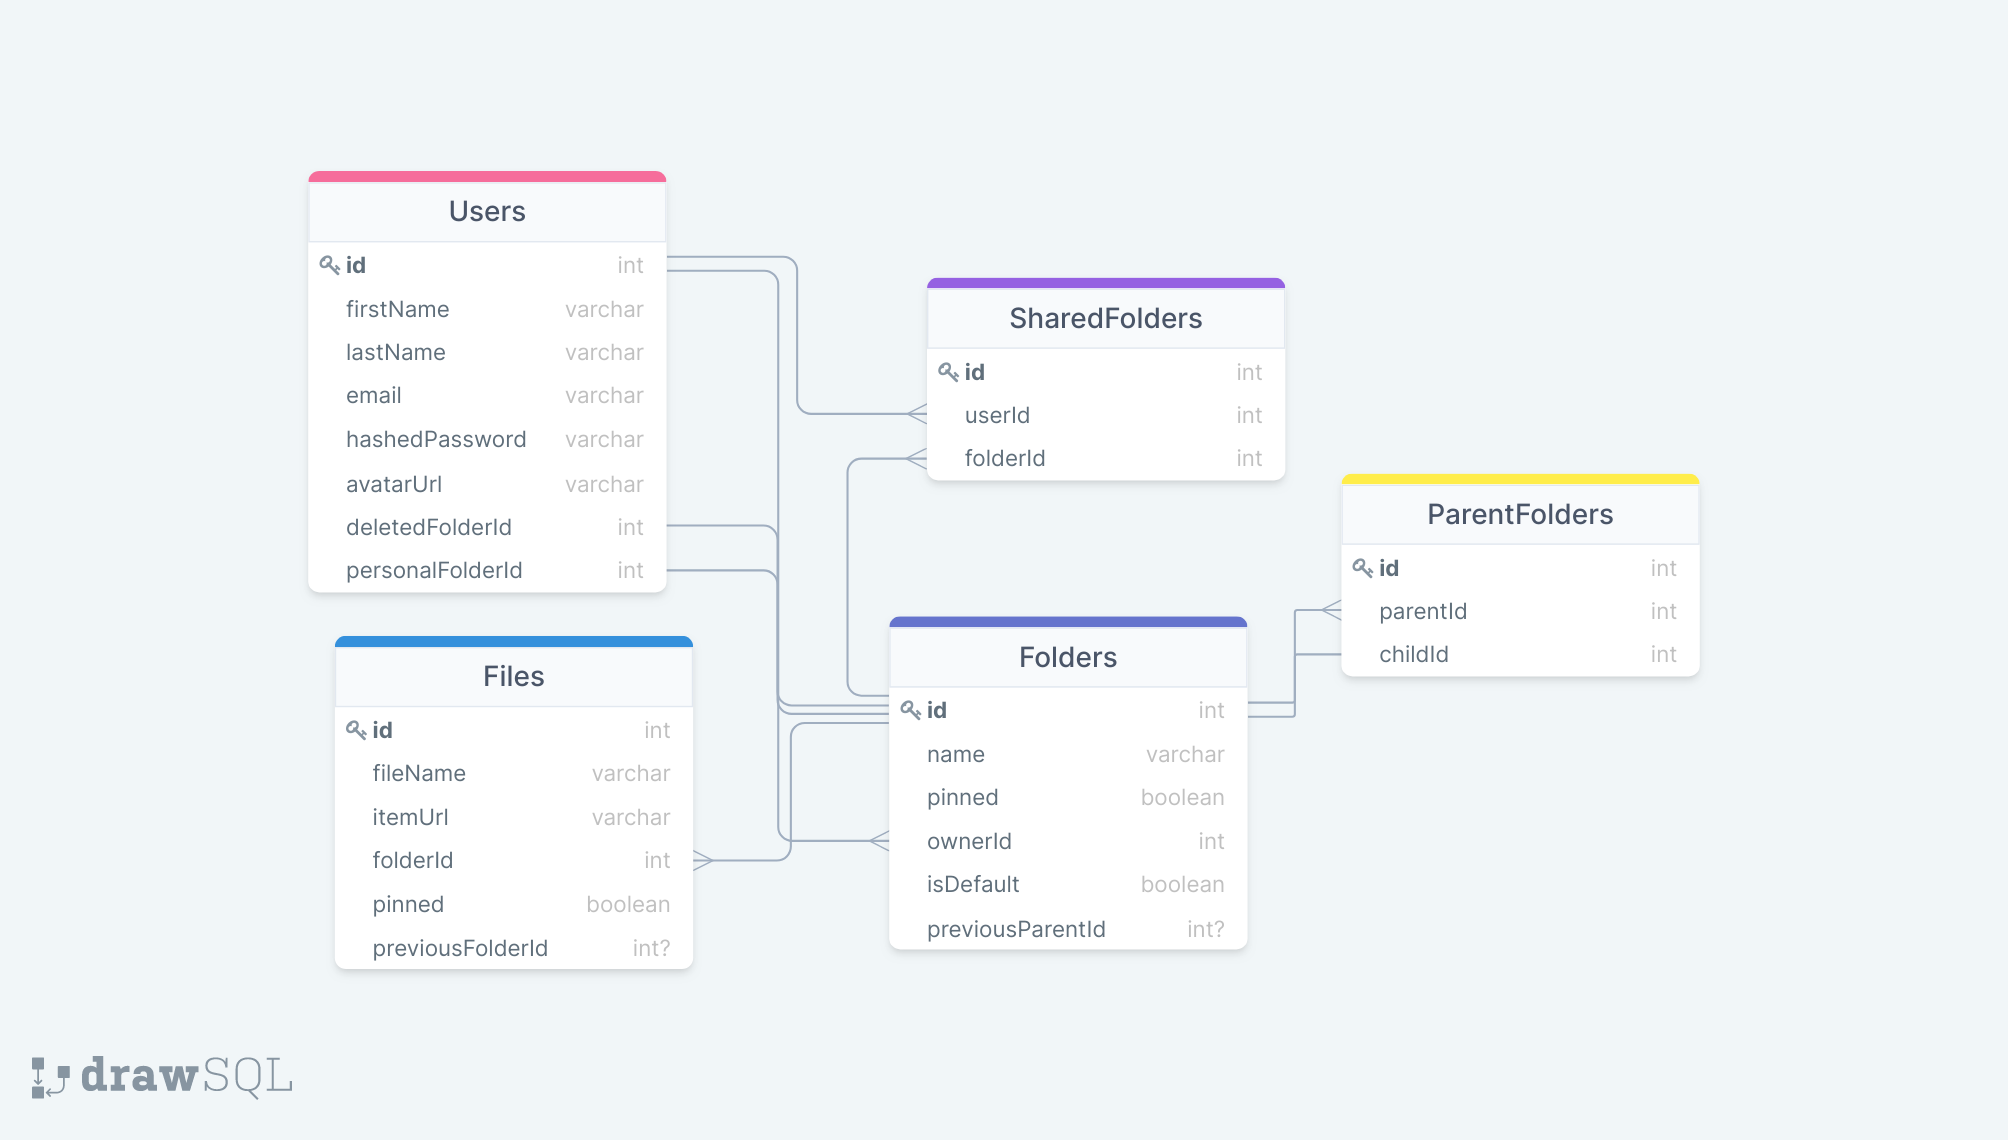
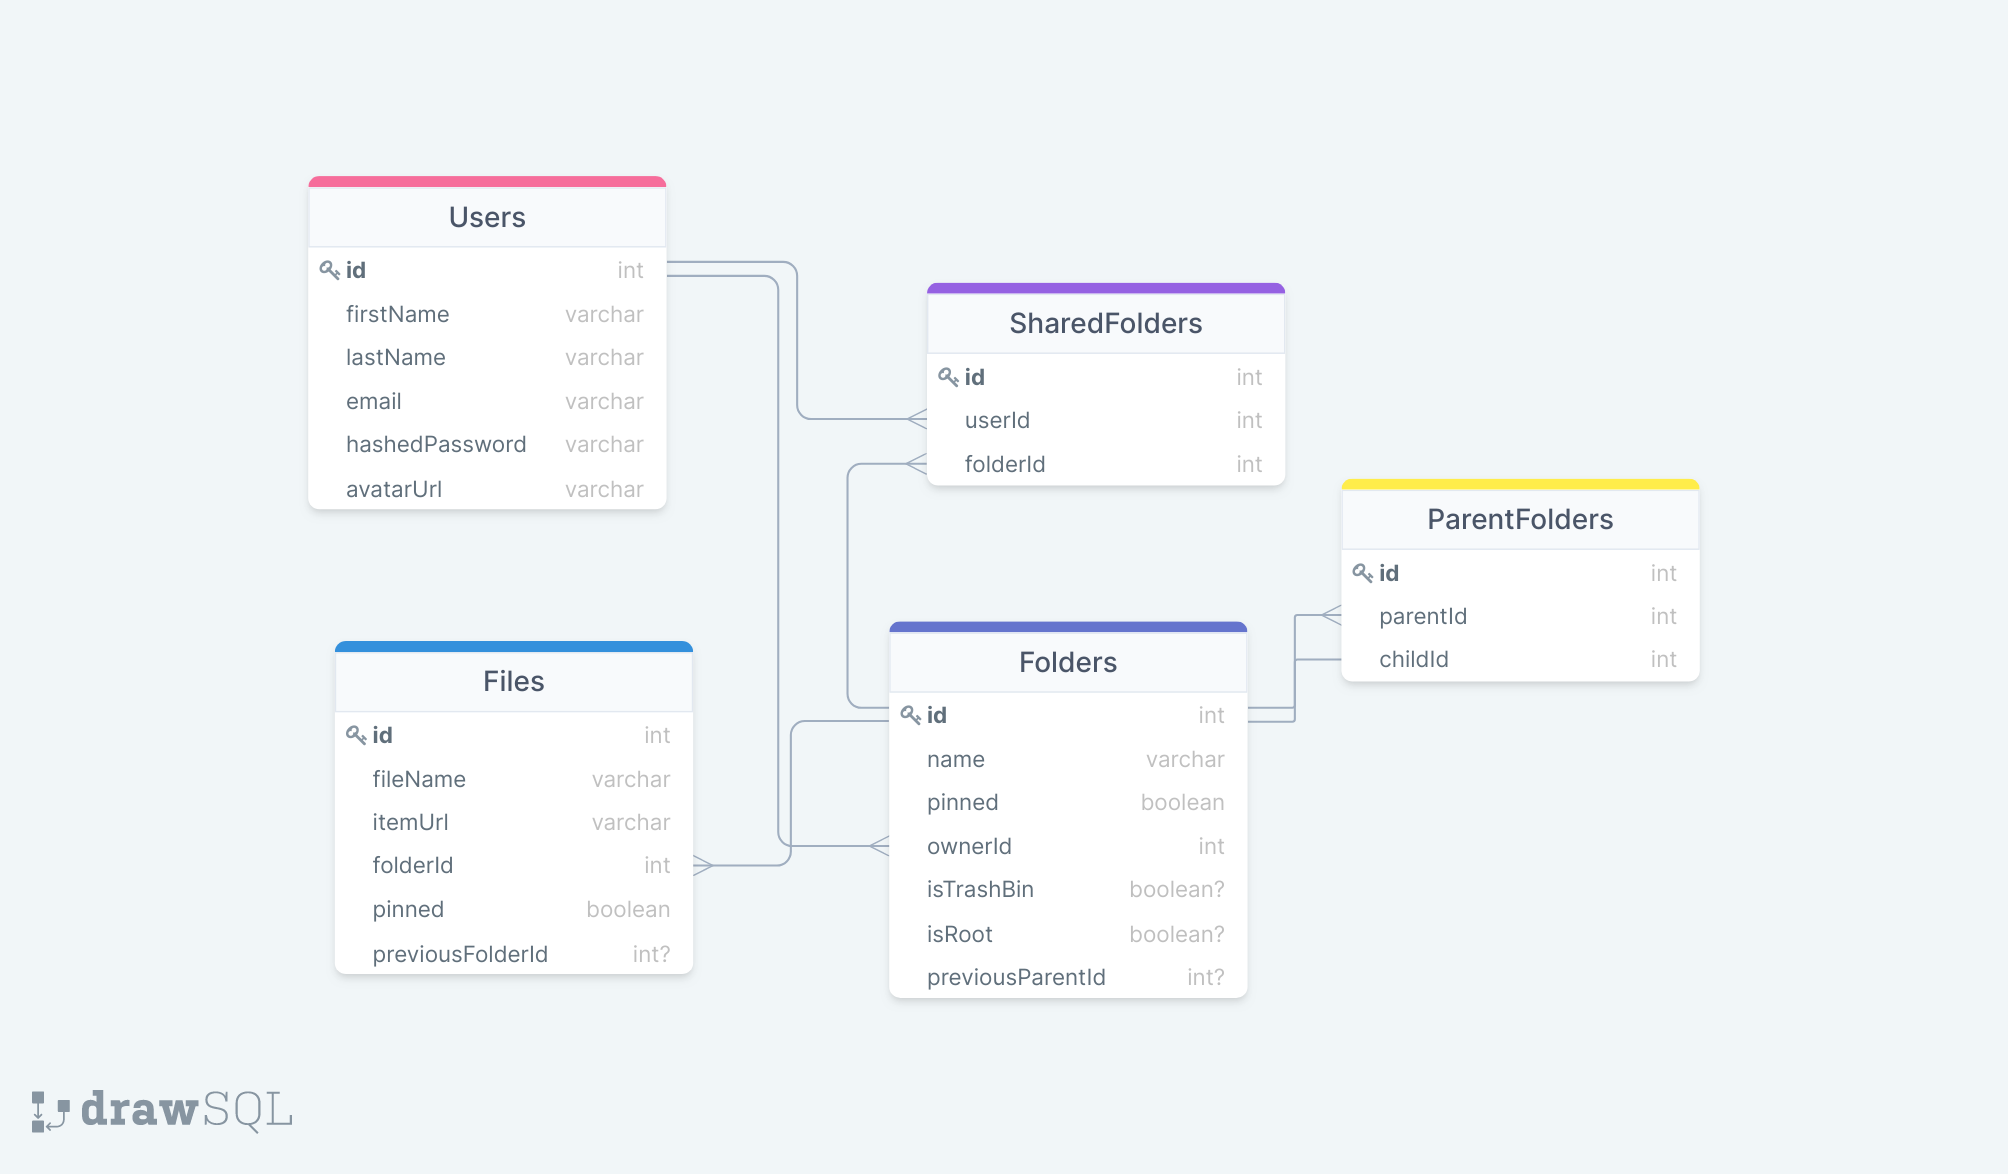
updated models

diff --git a/routes/api/session.js b/routes/api/session.js
@@ -1,0 +1,51 @@
+const express = require('express');
+const asyncHandler = require('express-async-handler');
+const { authenticated, generateToken } = require('./security-utils');
+const { validateEmailAndPassword, validationResult } = require('../../validations');
+const { User } = require("../../db/models");
+
+
+const router = express.Router();
+
+
+router.put(
+  '/',
+  validateEmailAndPassword,
+  asyncHandler(async (req, res, next) => {
+    const errors = validationResult(req);
+    if (!errors.isEmpty()) {
+      return next({ status: 422, errors: errors.array() });
+    }
+
+    async function findByEmail(email) {
+        const user = await User.findOne({ where: { email } });
+        return user || new NullUser();
+    }
+
+    const { email, password } = req.body;
+    const user = await findByEmail(email);
+    if (!user.isValidPassword(password)) {
+      const err = new Error('Login failed');
+      err.status = 401;
+      err.title = 'Login failed';
+      err.errors = ['Invalid credentials'];
+      return next(err);
+    }
+    const { jti, token } = generateToken(user);
+    user.tokenId = jti;
+    await user.save();
+    res.json({ token, user: user.toSafeObject() });
+  })
+);
+
+router.delete(
+  '/',
+  [authenticated],
+  asyncHandler(async (req, res) => {
+    req.user.tokenId = null;
+    await req.user.save();
+    res.json({ message: 'success' });
+  })
+);
+
+module.exports = router;

diff --git a/routes/api/security-utils.js b/routes/api/security-utils.js
@@ -1,0 +1,59 @@
+const bearerToken = require('express-bearer-token');
+const jwt = require('jsonwebtoken');
+const uuid = require('uuid').v4;
+const { jwtConfig: { secret, expiresIn } } = require('../../config');
+const { User } = require("../../db/models");
+
+
+function generateToken(user) {
+  // TODO: Add any data you want to keep in the JWT here
+  const data = {
+    firstName: user.firstName,
+    lastName: user.lastName,
+    email: user.email,
+  };
+  const jwtid = uuid();
+
+  return {
+    jti: jwtid,
+    token: jwt.sign({ data }, secret, { expiresIn: Number.parseInt(expiresIn), jwtid })
+  };
+}
+
+function restoreUser(req, res, next) {
+  const { token } = req;
+
+  if (!token) {
+    return next({ status: 401, message: 'no token' });
+  }
+
+  return jwt.verify(token, secret, null, async (err, payload) => {
+    if (err) {
+      err.status = 403;
+      return next(err);
+    }
+
+    const tokenId = payload.jti;
+
+    async function findByTokenId(tokenId) {
+        const user = await User.findOne({ where: { tokenId } });
+        return user
+    }
+
+    try {
+      req.user = await findByTokenId(tokenId);
+    } catch (e) {
+      return next(e);
+    }
+
+    if (!req.user.isValid()) {
+      return next({ status: 404, message: 'session not found' });
+    }
+
+    next();
+  });
+}
+
+const authenticated = [bearerToken(), restoreUser];
+
+module.exports = { generateToken, authenticated };

diff --git a/db/seeders/20200404043519-insert-folders.js b/db/seeders/20200404043519-insert-folders.js
@@ -1,0 +1,16 @@
+'use strict';
+
+module.exports = {
+  up: (queryInterface, Sequelize) => {
+      return queryInterface.bulkInsert('Folders', [
+          { name: "root", pinned: false, ownerId: 1, isTrashBin: false, isRoot: true, createdAt: new Date(), updatedAt: new Date() },
+          { name: "trashBin", pinned: false, ownerId: 1, isTrashBin: true, isRoot: false, createdAt: new Date(), updatedAt: new Date() },
+          { name: "root", pinned: false, ownerId: 2, isTrashBin: false, isRoot: true, createdAt: new Date(), updatedAt: new Date() },
+          { name: "trashBin", pinned: false, ownerId: 2, isTrashBin: true, isRoot: false, createdAt: new Date(), updatedAt: new Date() },
+      ], {});
+  },
+
+  down: (queryInterface, Sequelize) => {
+      return queryInterface.bulkDelete('Folders', null, {});
+  }
+};

diff --git a/db/seeders/20201203070136-insert-files.js b/db/seeders/20201203070136-insert-files.js
@@ -3,7 +3,10 @@
 module.exports = {
   up: (queryInterface, Sequelize) => {
       return queryInterface.bulkInsert('Files', [
-        { fileName: 'test.png', itemUrl: "www.test.png", folderId: 1, pinned: false, createdAt: new Date(), updatedAt: new Date() }
+        { fileName: 'test1.png', itemUrl: "www.test1.png", folderId: 1, pinned: false, createdAt: new Date(), updatedAt: new Date() },
+        { fileName: 'test2.png', itemUrl: "www.test2.png", folderId: 2, pinned: false, createdAt: new Date(), updatedAt: new Date() },
+        { fileName: 'test3.png', itemUrl: "www.test3.png", folderId: 3, pinned: false, createdAt: new Date(), updatedAt: new Date() },
+        { fileName: 'test4.png', itemUrl: "www.test4.png", folderId: 4, pinned: false, createdAt: new Date(), updatedAt: new Date() },
     ], {});
   },
 

diff --git a/db/seeders/20201203070110-insert-sharedfolders.js b/db/seeders/20201203070110-insert-sharedfolders.js
@@ -4,8 +4,9 @@ module.exports = {
   up: (queryInterface, Sequelize) => {
       return queryInterface.bulkInsert('SharedFolders', [
         { userId: 1, folderId: 1, createdAt: new Date(), updatedAt: new Date() },
-        { userId: 2, folderId: 2, createdAt: new Date(), updatedAt: new Date() },
-        { userId: 1, folderId: 3, createdAt: new Date(), updatedAt: new Date() },
+        { userId: 1, folderId: 2, createdAt: new Date(), updatedAt: new Date() },
+        { userId: 2, folderId: 3, createdAt: new Date(), updatedAt: new Date() },
+        { userId: 2, folderId: 4, createdAt: new Date(), updatedAt: new Date() },
       ], {});
   },
 

diff --git a/db/migrations/20201203045104-create-folder.js b/db/migrations/20201203045104-create-folder.js
@@ -21,7 +21,11 @@ module.exports = {
         type: Sequelize.INTEGER,
         references: { model: "Users" }
       },
-      isDefault: {
+      isTrashBin: {
+        allowNull: false,
+        type: Sequelize.BOOLEAN,
+      },
+      isRoot: {
         allowNull: false,
         type: Sequelize.BOOLEAN,
       },
@@ -39,6 +43,6 @@ module.exports = {
     });
   },
   down: (queryInterface, Sequelize) => {
-    return queryInterface.dropTable('folders');
+    return queryInterface.dropTable('Folders');
   }
 };

diff --git a/db/seeders/20201203070120-insert-parentfolders.js b/db/seeders/20201203070120-insert-parentfolders.js
@@ -3,7 +3,10 @@
 module.exports = {
   up: (queryInterface, Sequelize) => {
       return queryInterface.bulkInsert('ParentFolders', [
-        { parentId: 1, createdAt: new Date(), updatedAt: new Date() }
+        { parentId: 1, createdAt: new Date(), updatedAt: new Date() },
+        { parentId: 2, createdAt: new Date(), updatedAt: new Date() },
+        { parentId: 3, createdAt: new Date(), updatedAt: new Date() },
+        { parentId: 4, createdAt: new Date(), updatedAt: new Date() },
     ], {});
   },
 

diff --git a/db/seeders/20200304043519-insert-users.js b/db/seeders/20200304043519-insert-users.js
@@ -17,7 +17,6 @@ module.exports = {
     return queryInterface.bulkInsert('Users', [
       r({ firstName: 'Demo', lastName: "User", email: 'demo@example.com', hashedPassword: createPassword() }),
       r({ firstName: 'Yusuke', lastName: "Hiruke", email: 'yusuke@example.com', hashedPassword: createPassword() }),
-      r({ firstName: 'Peta', lastName: "Sandra", email: 'petra@example.com', hashedPassword: createPassword() }),
     ]);
   },
 

diff --git a/db/models/folder.js b/db/models/folder.js
@@ -13,7 +13,11 @@ module.exports = (sequelize, DataTypes) => {
         allowNull: false,
         type: DataTypes.INTEGER
     },
-    isDefault: {
+    isTrashBin: {
+        allowNull: false,
+        type: DataTypes.BOOLEAN
+    },
+    isRoot: {
         allowNull: false,
         type: DataTypes.BOOLEAN
     },

diff --git a/db/migrations/20201203045126-create-sharedfolder.js b/db/migrations/20201203045126-create-sharedfolder.js
@@ -29,6 +29,6 @@ module.exports = {
     });
   },
   down: (queryInterface, Sequelize) => {
-    return queryInterface.dropTable('sharedfolders');
+    return queryInterface.dropTable('SharedFolders');
   }
 };

diff --git a/db/migrations/20201203045234-create-parentfolder.js b/db/migrations/20201203045234-create-parentfolder.js
@@ -28,6 +28,6 @@ module.exports = {
     });
   },
   down: (queryInterface, Sequelize) => {
-    return queryInterface.dropTable('parentfolders');
+    return queryInterface.dropTable('ParentFolders');
   }
 };

diff --git a/db/migrations/20201203045334-create-file.js b/db/migrations/20201203045334-create-file.js
@@ -39,6 +39,6 @@ module.exports = {
     });
   },
   down: (queryInterface, Sequelize) => {
-    return queryInterface.dropTable('files');
+    return queryInterface.dropTable('Files');
   }
 };
